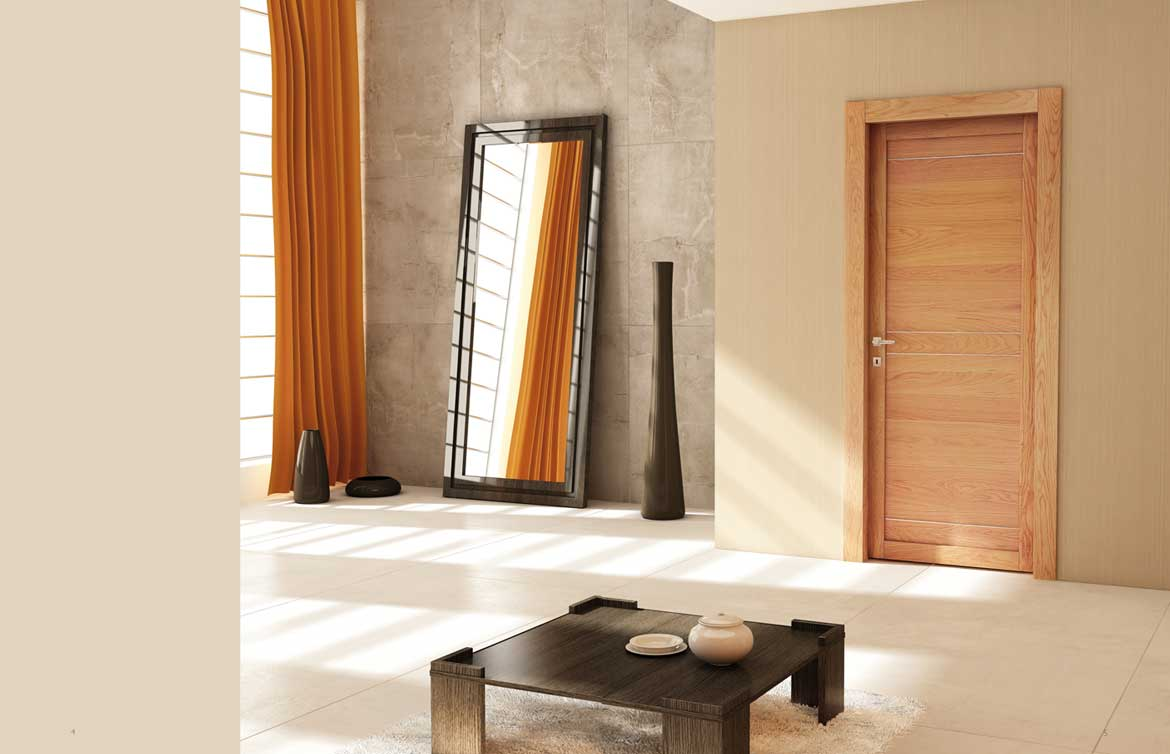
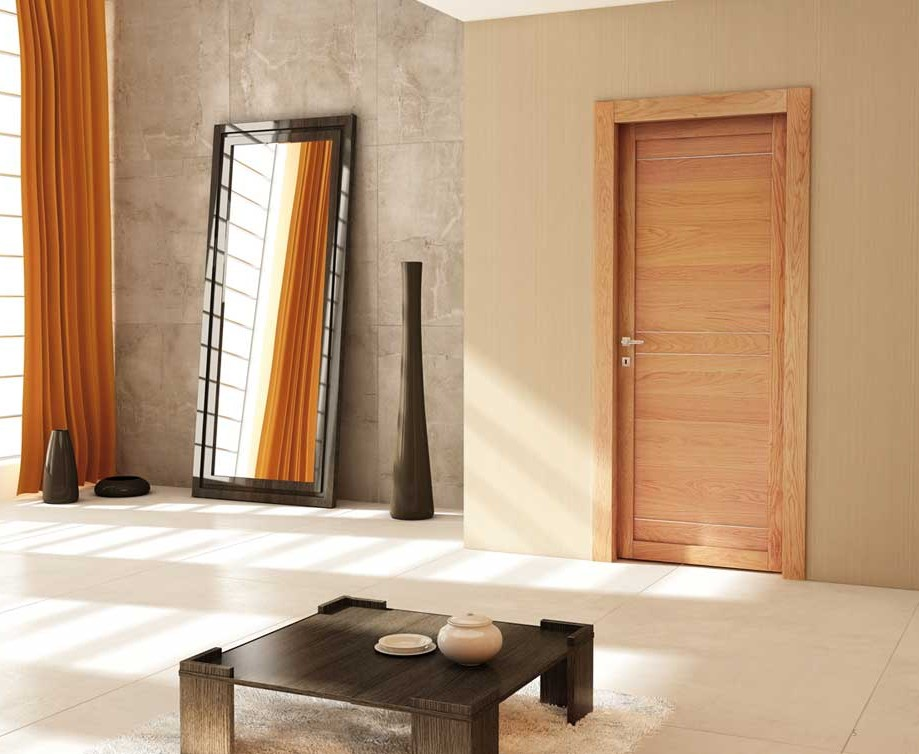
Miglioramento grafico footer.html

diff --git a/Client/templates/footer.html b/Client/templates/footer.html
@@ -1,13 +1,16 @@
 <footer class="footer">
     <div class="container">
-        <div class="row">
+        <div class="row align-items-center">
             <div class="col-md-6 text-md-start">
                 <img src="{{ url_for('static', filename='assets/img/Loghi/logo.png') }}" alt="Logo" class="footer-logo">
             </div>
             <div class="col-md-6 text-md-end social-icons">
-                <a href="" class="footer-link"><i class="bi bi-youtube"></i></a>
-                <a href="" class="footer-link"><i class="bi bi-facebook"></i></a>
-                <a href="" class="footer-link"><i class="bi bi-pinterest"></i></a>
+                <a href="https://www.youtube.com/@poliwoodportesnc/" target="_blank" class="footer-link"><i
+                        class="bi bi-youtube"></i></a>
+                <a href="https://www.facebook.com/profile.php?id=100063535328781" target="_blank" class="footer-link"><i
+                        class="bi bi-facebook"></i></a>
+                <a href="https://it.pinterest.com/poliwoodportesnc/" target="_blank" class="footer-link"><i
+                        class="bi bi-pinterest"></i></a>
             </div>
         </div>
         <hr>
@@ -19,16 +22,16 @@
                     <li class="footer-pages"><a href="" class="footer-link">News</a></li>
                 </ul>
             </div>
-            <div class="col-md-3 text-md-start">
+            <div class="col-md-3 text-md-start footer-list">
                 <p>Azienda</p>
                 <ul>
-                    <li><a href="{{ url_for('news') }}" class="footer-link">Chi Siamo</a></li>
+                    <li><a href="{{ url_for('news') }}" class="footer-link">Chi siamo</a></li>
                     <li><a href="{{ url_for('news') }}" class="footer-link">Qualità</a></li>
-                    <li><a href="{{ url_for('news') }}" class="footer-link">Fouri misura standard</a></li>
+                    <li><a href="{{ url_for('news') }}" class="footer-link">Fuori misura standard</a></li>
                 </ul>
             </div>
-            <div class="col-md-3 text-md-start">
-                <a href="{{ url_for('collezioni') }}" class="footer-link">Collezioni</a>
+            <div class="col-md-3 text-md-start footer-list">
+                <p><a href="{{ url_for('collezioni') }}" class="footer-link">Collezioni</a></p>
                 <ul>
                     <li><a href="{{ url_for('collezioni') }}" class="footer-link">Next</a></li>
                     <li><a href="{{ url_for('collezioni') }}" class="footer-link">Line</a></li>
@@ -42,12 +45,20 @@
                 </ul>
             </div>
             <div class="col-md-3 text-md-end newsletter">
-                <input type="text" class="form-control" placeholder="Nome">
-                <input type="email" class="form-control" placeholder="Email" style="margin-top: 10px;">
-                <button class="btn mt-3">Iscriviti alla newsletter</button>
+                <form>
+                    <div class="newsletter-formbox">
+                        <input type="text" name="Nome" required>
+                        <label for="Nome">Nome</label>
+                    </div>
+                    <div class="newsletter-formbox">
+                        <input type="email" name="Email" required>
+                        <label for="Email">Email</label>
+                    </div>
+                    <button type="submit">Iscriviti alla newsletter</button>
+                </form>
             </div>
         </div>
-        <div>
+        <div class="mt-5">
             <p class="text-center mt-3">&copy; 2026
                 Poliwood snc di Negro Stefania & C. - Via Bracco, 2 - 12060 BELVEDERE LANGHE (Cn) - C.F./P.Iva
                 03389190046 Tel. 0173 797050</p>

diff --git a/Client/static/css/style.css b/Client/static/css/style.css
@@ -39,6 +39,7 @@ body {
     padding: 20px 40px;
     gap: 15px;
 }
+
 /* Logo */
 .navbar-logo {
     width: 100%;
@@ -74,6 +75,45 @@ body {
     border-bottom-color: #ffffff;
 }
 
+/* Dropdown */
+.dropdown {
+    position: relative;
+    display: inline-block;
+}
+
+.dropdown-content {
+    display: none;
+    position: absolute;
+    background-color: black;
+    min-width: 180px;
+    box-shadow: 0px 8px 16px 0px rgba(0, 0, 0, 0.2);
+    z-index: 1001;
+    padding: 10px 0;
+    top: 100%;
+    left: 50%;
+    transform: translateX(-50%);
+    border-top: 2px solid white;
+}
+
+.dropdown-content a {
+    color: white;
+    padding: 12px 16px;
+    text-decoration: none;
+    display: block;
+    font-size: 14px;
+    text-align: center;
+    transition: background-color 0.3s;
+}
+
+.dropdown-content a:hover {
+    background-color: #333;
+    color: #fff;
+}
+
+.dropdown:hover .dropdown-content {
+    display: block;
+}
+
 /*Galleria*/
 .galleria {
     display: flex;
@@ -84,14 +124,14 @@ body {
 
 .galleria-item {
     position: relative;
-    width:  100%;
-    height: 100%;      
+    width: 100%;
+    height: 100%;
     overflow: hidden;
     cursor: pointer;
 }
 
 /*Footer*/
-.footer{
+.footer {
     background-color: black;
     color: white;
     text-align: center;
@@ -107,20 +147,30 @@ body {
     font-size: 30px;
 }
 
-.footer a{
+.footer a {
     color: white;
     text-decoration: none;
     transition: color 0.3s ease;
     cursor: pointer;
 }
 
-.social-icons i:hover, .footer a:hover {
+.social-icons i:hover,
+.footer a:hover {
     color: #cccccc;
 }
 
-.footer-pages{
+.footer-pages {
     list-style: none;
     margin-bottom: 16px;
+}
+
+.footer-list ul{
+     border-left: 1px solid #333;
+    padding-left: 12px;
+}
+
+.footer-list li{
+    list-style: none;
 }
 
 .newsletter {
@@ -143,15 +193,14 @@ body {
     border: 1px solid #cccccc;
     border-radius: 5px;
     width: 300px;
-    font-size: 16px;    
-    display: inline-block; 
+    font-size: 16px;
+    display: inline-block;
     width: auto;
 }
 
-.newsletter .btn{
+.newsletter form button {
     padding: 10px 20px;
     border: none;
-    border-radius: 5px;
     background-color: white;
     color: black;
     font-size: 16px;
@@ -159,9 +208,48 @@ body {
     transition: background-color 0.3s ease;
 }
 
-.newsletter .btn:hover {
-    background-color: #cccccc;  
+.newsletter form button:hover {
+    background-color: #cccccc;
 }
+
+.newsletter-formbox {
+    position: relative;
+    min-width: 300px;
+    margin-bottom: 20px;
+}
+
+.newsletter-formbox input {
+    width: 100%;
+    padding: 10px 0;
+    font-size: 16px;
+    color: #fff;
+    margin-bottom: 30px;
+    border: none;
+    border-bottom: 1px solid #fff;
+    outline: none;
+    background: transparent;
+}
+
+.newsletter-formbox label {
+    position: absolute;
+    top: 0;
+    left: 0;
+    padding: 10px 0;
+    font-size: 16px;
+    color: #fff;
+    pointer-events: none;
+    transition: .5s;
+}
+
+.newsletter-formbox input:focus~label,
+.newsletter-formbox input:valid~label {
+    top: -20px;
+    left: 0;
+    color: #cccccc;
+    font-size: 12px;
+}
+
+
 
 /* Hero Section */
 .hero {

diff --git a/Client/templates/navbar.html b/Client/templates/navbar.html
@@ -12,7 +12,14 @@
                     <a href="{{ url_for('home') }}" class="navbar-link">Home</a>
                 </li>
                 <li class="navbar-item">
-                    <a href="{{ url_for('azienda') }}" class="navbar-link">Azienda</a>
+                    <div class="dropdown">
+                        <a href="#" class="navbar-link">Azienda&nbsp;<i class="bi bi-chevron-down"></i></a>
+                        <div class="dropdown-content">
+                            <a href="">Chi siamo</a>
+                            <a href="">Qualità</a>
+                            <a href="">Fouri misura standard</a>
+                        </div>
+                    </div>
                 </li>
                 <li class="navbar-item">
                     <a href="{{ url_for('collezioni') }}" class="navbar-link">Collezioni</a>

diff --git a/Client/templates/index.html b/Client/templates/index.html
@@ -18,7 +18,7 @@
     <main>
         <!-- Galleria -->
         <div class="galleria">
-            <img src="{{ url_for('static', filename='assets/img/Ambientazioni/_2.jpg') }}" alt="Ambientazione" class="galleria-item">
+            <img src="{{ url_for('static', filename='assets/img/Ambientazioni/_4.jpg') }}" alt="Ambientazione" class="galleria-item">
         </div>
     </main>
 
